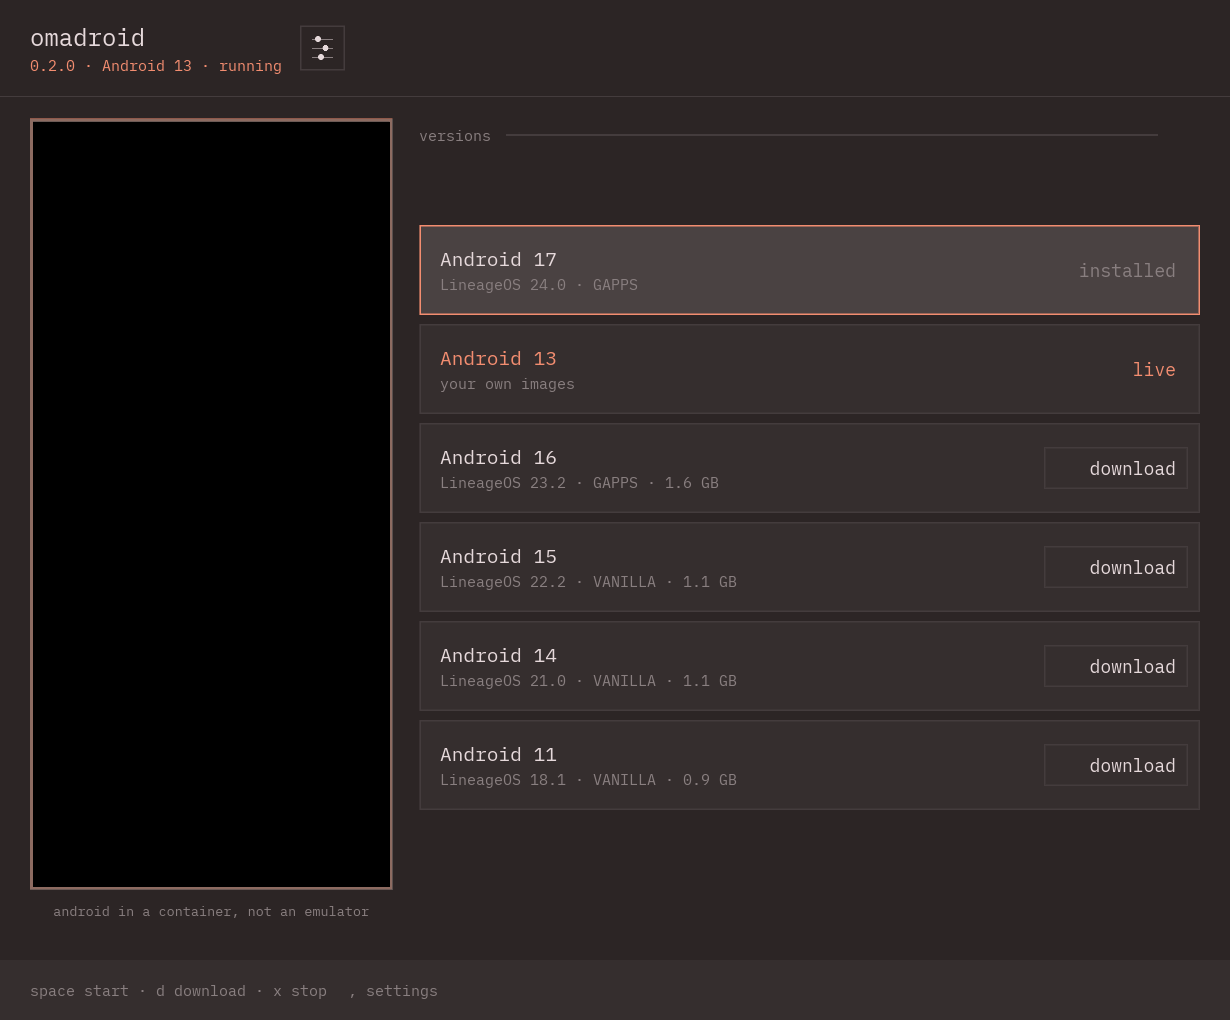
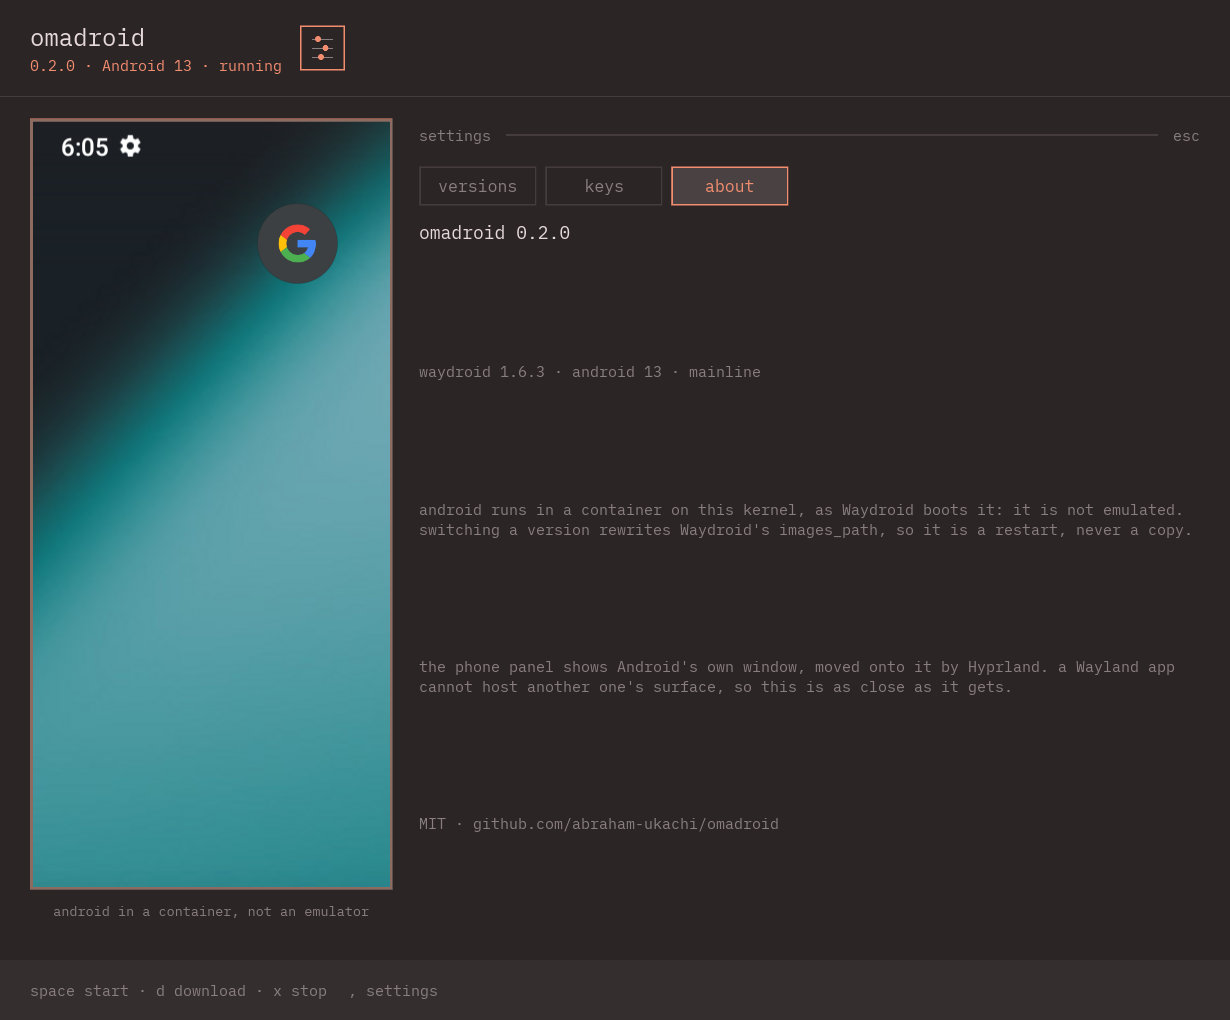
:memo: Capture the phone with Android running on the panel

diff --git a/app/src/lib.rs b/app/src/lib.rs
@@ -11,7 +11,7 @@
 
 use std::sync::atomic::{AtomicBool, Ordering};
 use std::sync::mpsc::{self, Receiver, Sender};
-use std::sync::{Arc, Mutex};
+use std::sync::{Arc, Mutex, OnceLock};
 use std::time::{Duration, Instant};
 
 use omadroid_core::catalog::{self, Release};
@@ -24,6 +24,10 @@ use slint::{ModelRc, Timer, TimerMode, VecModel};
 slint::include_modules!();
 
 const VERSION: &str = env!("CARGO_PKG_VERSION");
+
+/// `waydroid --version` costs a Python start, and the answer cannot change
+/// while the app runs: asked once, remembered.
+static WAYDROID_VERSION: OnceLock<Option<String>> = OnceLock::new();
 
 /// How often the phone window is nudged back onto the panel.
 const RING: Duration = Duration::from_millis(400);
@@ -84,7 +88,7 @@ fn engine_line(deps: &bootstrap::Deps, status: &engine::Status) -> String {
     if !deps.waydroid {
         return "waydroid is not installed".to_string();
     }
-    let mut parts = vec![match engine::version() {
+    let mut parts = vec![match WAYDROID_VERSION.get_or_init(engine::version) {
         Some(version) => format!("waydroid {version}"),
         None => "waydroid".to_string(),
     }];
@@ -558,6 +562,18 @@ pub fn run() -> Result<(), slint::PlatformError> {
             *current = panel;
         }
     });
+
+    // Android can be started from outside omadroid, and a switch can be slow to
+    // answer: the state is re-read every few seconds, not only on a click.
+    {
+        let tx = cmd_tx.clone();
+        let state = Timer::default();
+        state.start(TimerMode::Repeated, Duration::from_secs(5), move || {
+            let _ = tx.send(Cmd::Refresh);
+        });
+        // The timer has to outlive `run`: it is started before the event loop.
+        std::mem::forget(state);
+    }
 
     let weak = ui.as_weak();
     let colours = Timer::default();
